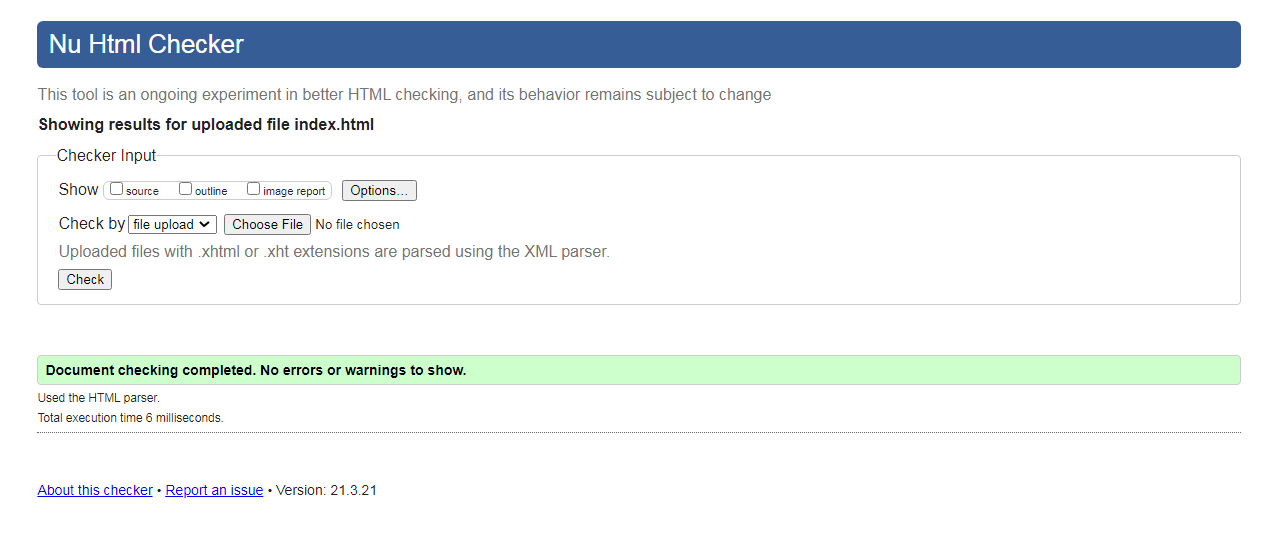
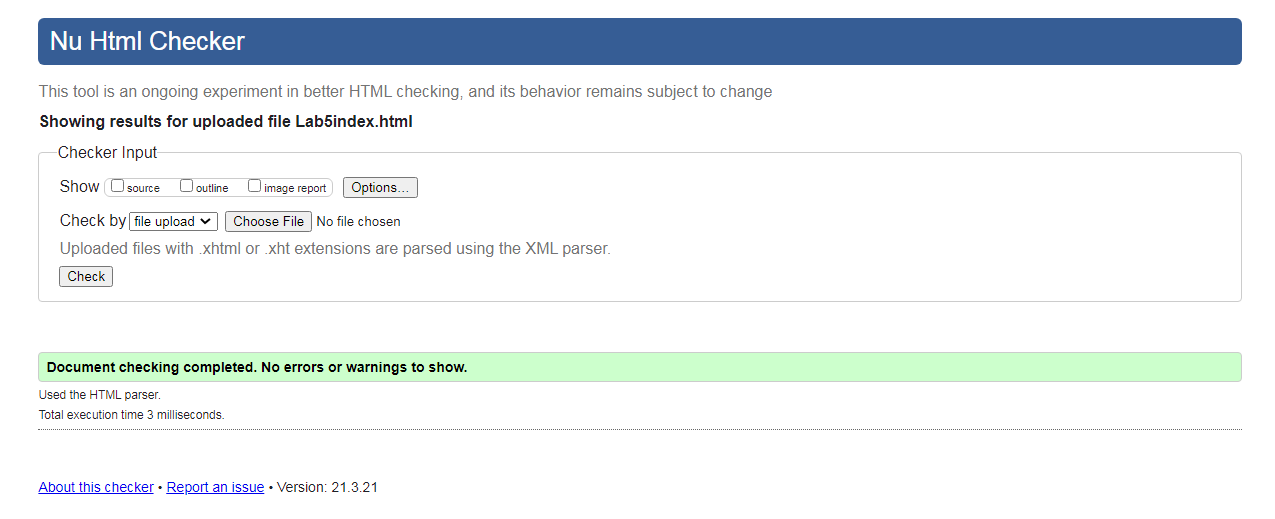
.
.

diff --git a/README.md b/README.md
@@ -4,6 +4,6 @@
 <ul>
 <li><a href="Midterm/index.html" target="_blank">Mid-Term Project</a></li>
 
-<li><a href="Lab5index.html" target="_blank">Lab 5</a></li>
+<li><a href="Lab 5 Demo/Lab5index.html" target="_blank">Lab 5</a></li>
 
 </ul>
